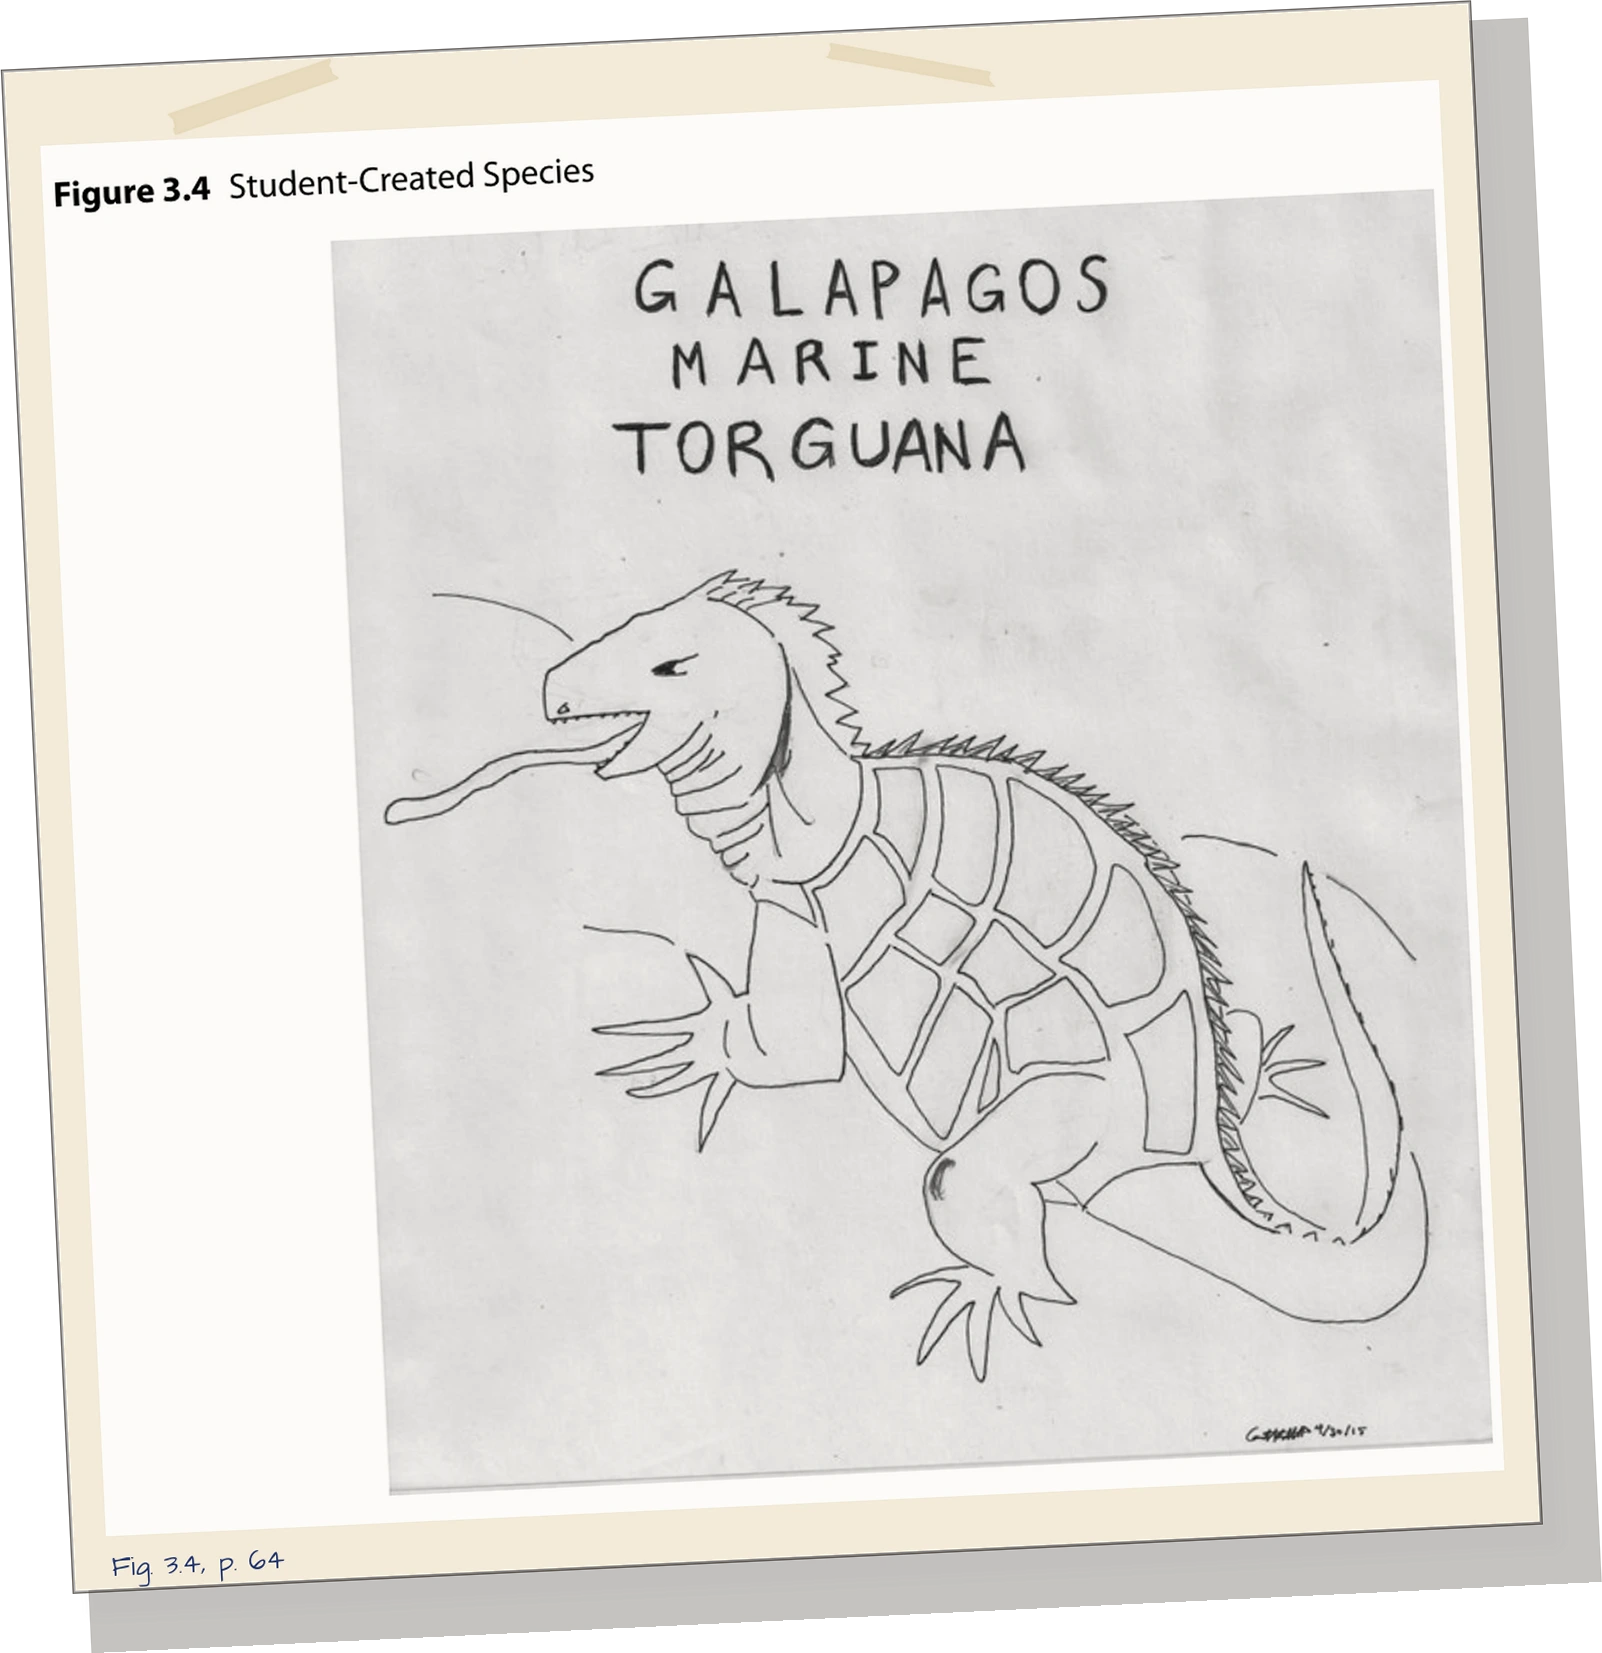
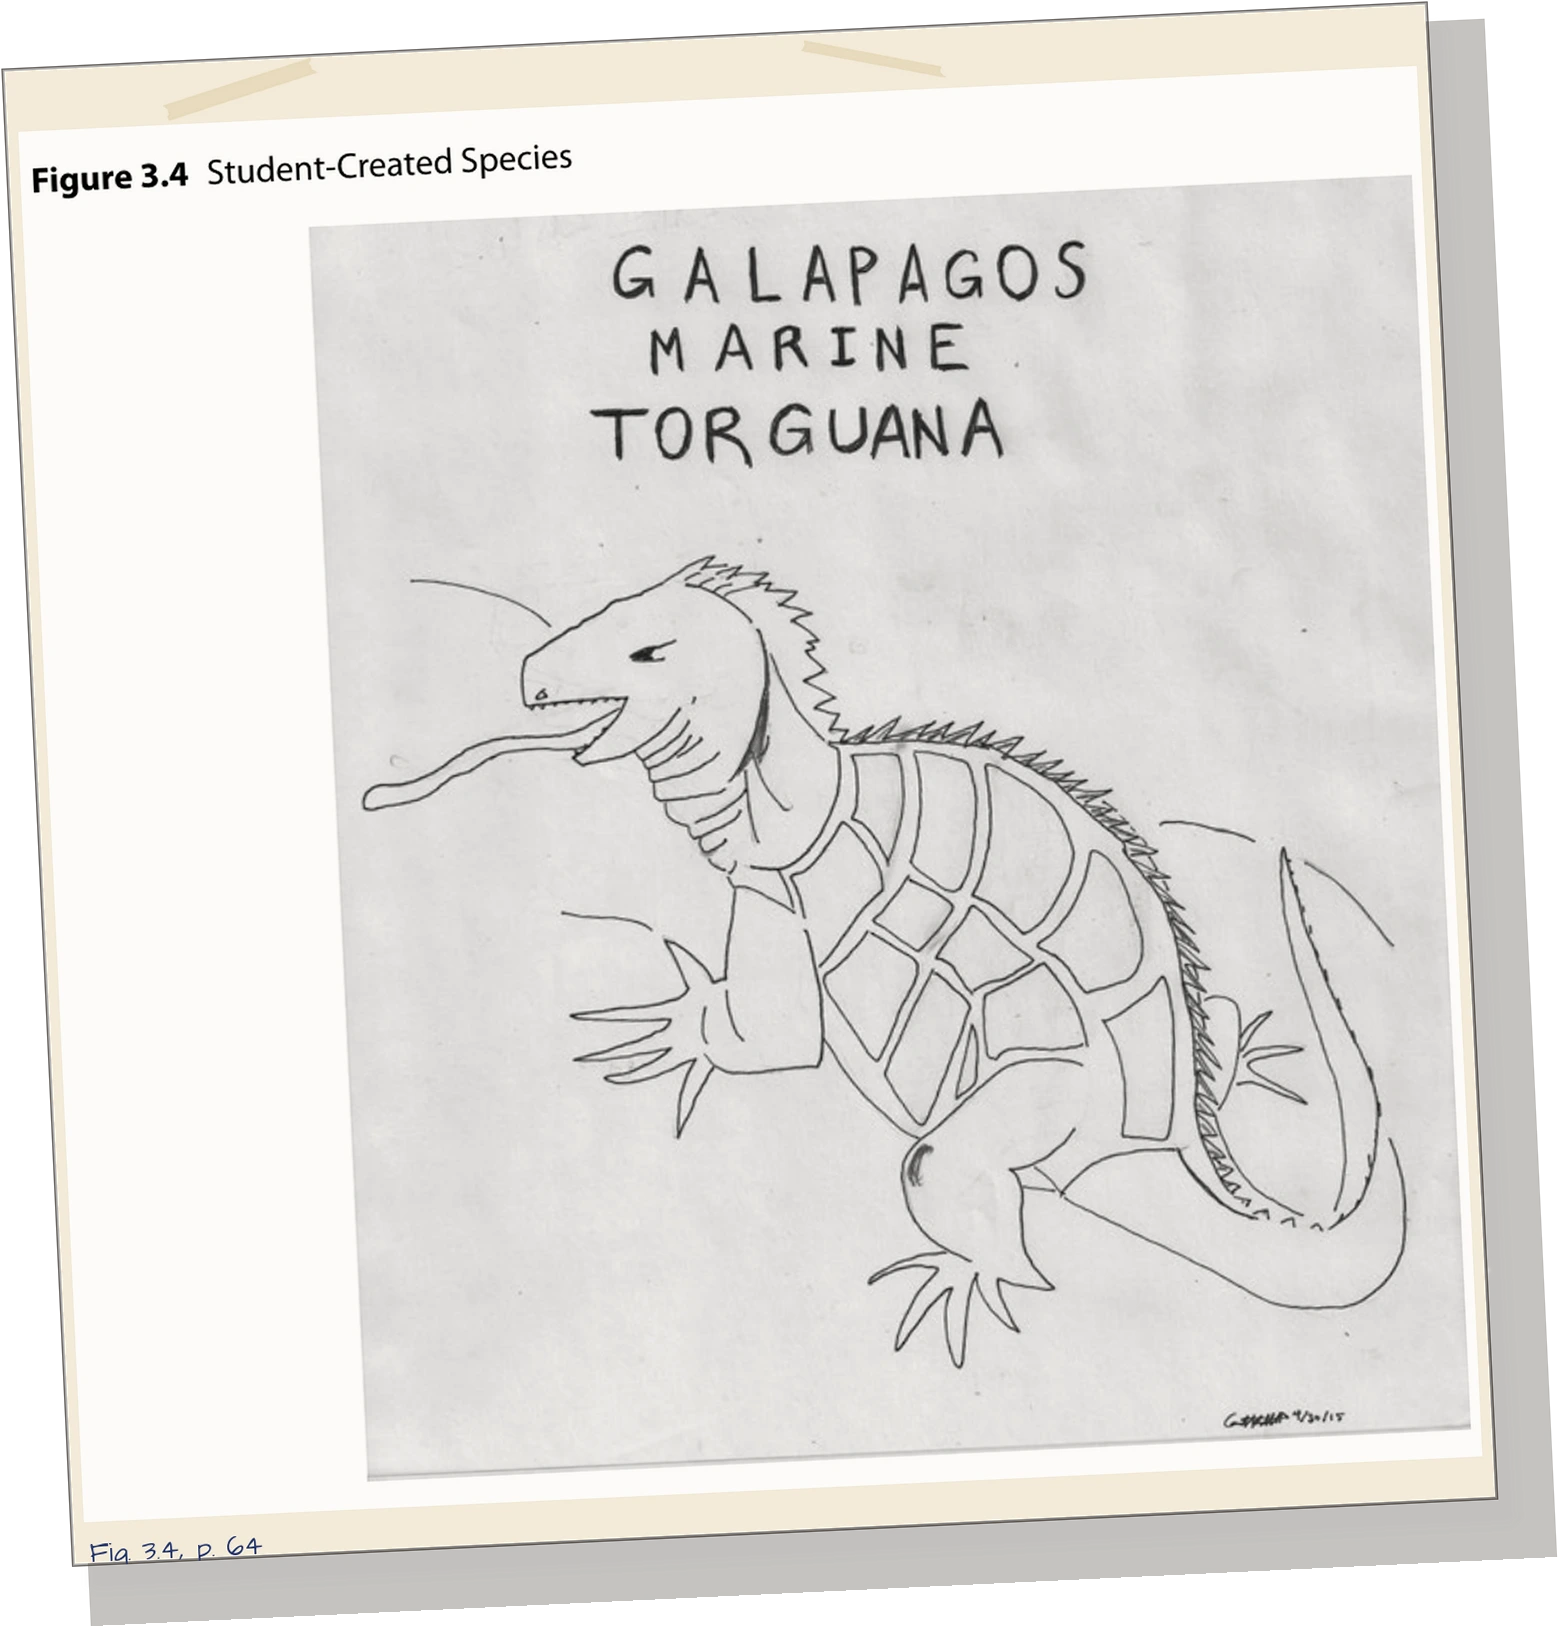
fix(diy-pbl): stage-rect card placement, fewer lines, ≥9px @844
Size Leo figures from the live .bs-scene rect (55% width or ~88%
height if limited; vertical center; ≥3% gap). Cut p13/p22/p25 to
fewer full-sentence lines for glyph size. Assert width/center at
1280 and 844; keep beige tape, soft hatch, p10/p21/p06 endings.

diff --git a/public/diy-pbl-bookshare/bs-pages.js b/public/diy-pbl-bookshare/bs-pages.js
@@ -100,15 +100,15 @@ const IDEA_BY_ART = {
   s14: { x: 110, y: 200, w: 760, h: 560, rot: 1 },
   s15: { x: 110, y: 200, w: 720, h: 560, rot: -1 },
   s16: { x: 110, y: 200, w: 860, h: 560, rot: 1 },
-  r6a: { x: 72, y: 150, w: 700, h: 720, rot: -1 },
-  r6b: { x: 72, y: 150, w: 700, h: 720, rot: 1 },
-  r6c: { x: 72, y: 150, w: 700, h: 720, rot: -1 },
-  r6d: { x: 72, y: 150, w: 700, h: 720, rot: 1 },
-  r6e: { x: 72, y: 150, w: 700, h: 720, rot: -1 },
-  r6f: { x: 72, y: 150, w: 700, h: 720, rot: 1 },
-  r6h: { x: 72, y: 150, w: 700, h: 720, rot: -1 },
-  r6i: { x: 72, y: 150, w: 700, h: 720, rot: 1 },
-  r6j: { x: 72, y: 150, w: 700, h: 720, rot: -1 },
+  r6a: { x: 64, y: 140, w: 640, h: 760, rot: -1 },
+  r6b: { x: 64, y: 140, w: 640, h: 760, rot: 1 },
+  r6c: { x: 64, y: 140, w: 640, h: 760, rot: -1 },
+  r6d: { x: 64, y: 140, w: 640, h: 760, rot: 1 },
+  r6e: { x: 64, y: 140, w: 640, h: 760, rot: -1 },
+  r6f: { x: 64, y: 140, w: 640, h: 760, rot: 1 },
+  r6h: { x: 64, y: 140, w: 640, h: 760, rot: -1 },
+  r6i: { x: 64, y: 140, w: 640, h: 760, rot: 1 },
+  r6j: { x: 64, y: 140, w: 640, h: 760, rot: -1 },
 };
 
 const KT_ROTS = [-2, 1.5, -1, 2, 1, -2.5, 2, -1];
@@ -774,11 +774,56 @@ function placeFigureCard(root, slide) {
   const artId = slide.art || `s${String(slide.n).padStart(2, "0")}`;
   const el = img(`${ART}${artId}/${fig.src}`, "bs-sp bs-r6-figure");
   el.alt = fig.alt || "";
+  // Initial placement from data (design px); refined after decode against live stage.
   const x = fig.x ?? 1000, y = fig.y ?? 100, w = fig.w ?? 800, h = fig.h ?? 900;
   applyRect(el, x, y, w, h, fig.rot || 0);
   el.style.objectFit = "contain";
+  el.style.objectPosition = "center center";
   el.style.pointerEvents = "none";
   layer.appendChild(el);
+  const refine = () => {
+    if (!el.naturalWidth || !el.naturalHeight) return;
+    syncDesignLayer(root, layer);
+    const stage = root.getBoundingClientRect();
+    if (stage.width < 40 || stage.height < 40) return;
+    const idea = root.querySelector(".bs-idea-panel");
+    const ideaR = idea ? idea.getBoundingClientRect() : null;
+    const natA = el.naturalWidth / el.naturalHeight;
+    // Target: 52-55% stage width, or ~88% stage height if portrait-limited.
+    let cssW = stage.width * 0.55;
+    let cssH = cssW / natA;
+    if (cssH > stage.height * 0.88) {
+      cssH = stage.height * 0.88;
+      cssW = cssH * natA;
+    }
+    // ≥3% gap from text column
+    const minLeft = ideaR ? (ideaR.right + stage.width * 0.03) : (stage.left + stage.width * 0.40);
+    let cssLeft = stage.left + stage.width - cssW - stage.width * 0.02;
+    if (cssLeft < minLeft) {
+      cssLeft = minLeft;
+      cssW = Math.max(40, stage.left + stage.width - stage.width * 0.02 - cssLeft);
+      cssH = cssW / natA;
+      if (cssH > stage.height * 0.88) {
+        cssH = stage.height * 0.88;
+        cssW = cssH * natA;
+        cssLeft = stage.left + stage.width - cssW - stage.width * 0.02;
+      }
+    }
+    const cssTop = stage.top + (stage.height - cssH) / 2;
+    // Map viewport CSS box back into design-layer pixels
+    const inv = new DOMMatrix(getComputedStyle(layer).transform).inverse();
+    const p0 = inv.transformPoint({ x: cssLeft - stage.left, y: cssTop - stage.top });
+    const p1 = inv.transformPoint({ x: cssLeft - stage.left + cssW, y: cssTop - stage.top + cssH });
+    const dx = Math.min(p0.x, p1.x), dy = Math.min(p0.y, p1.y);
+    const dw = Math.abs(p1.x - p0.x), dh = Math.abs(p1.y - p0.y);
+    applyRect(el, dx, dy, dw, dh, 0);
+    el.style.objectFit = "contain";
+  };
+  if (el.complete && el.naturalWidth) {
+    requestAnimationFrame(() => requestAnimationFrame(refine));
+  } else {
+    el.addEventListener("load", () => requestAnimationFrame(() => requestAnimationFrame(refine)), { once: true });
+  }
 }
 
 function buildOnArtIdeaPanel(root, slide) {

diff --git a/public/diy-pbl-bookshare/bs-data.js b/public/diy-pbl-bookshare/bs-data.js
@@ -104,10 +104,10 @@ export const SLIDES = [
     "onArt": true,
     "figure": {
       "src": "figure.webp",
-      "x": 857,
-      "y": 230,
-      "w": 1027,
-      "h": 620,
+      "x": 832,
+      "y": 221,
+      "w": 1056,
+      "h": 638,
       "rot": 0
     }
   },
@@ -130,10 +130,10 @@ export const SLIDES = [
     "onArt": true,
     "figure": {
       "src": "figure.webp",
-      "x": 1158,
-      "y": 50,
-      "w": 726,
-      "h": 980,
+      "x": 1198,
+      "y": 65,
+      "w": 690,
+      "h": 950,
       "rot": 0
     }
   },
@@ -191,10 +191,10 @@ export const SLIDES = [
     "onArt": true,
     "figure": {
       "src": "figure.webp",
-      "x": 857,
-      "y": 226,
-      "w": 1027,
-      "h": 627,
+      "x": 832,
+      "y": 217,
+      "w": 1056,
+      "h": 645,
       "rot": 0
     }
   },
@@ -251,10 +251,10 @@ export const SLIDES = [
     "onArt": true,
     "figure": {
       "src": "figure.webp",
-      "x": 857,
-      "y": 290,
-      "w": 1027,
-      "h": 500,
+      "x": 832,
+      "y": 349,
+      "w": 1056,
+      "h": 382,
       "rot": 0
     }
   },
@@ -331,10 +331,10 @@ export const SLIDES = [
     "onArt": true,
     "figure": {
       "src": "figure.webp",
-      "x": 935,
-      "y": 50,
-      "w": 949,
-      "h": 980,
+      "x": 978,
+      "y": 65,
+      "w": 910,
+      "h": 950,
       "rot": 0
     }
   },
@@ -412,10 +412,10 @@ export const SLIDES = [
     "onArt": true,
     "figure": {
       "src": "figure.webp",
-      "x": 1312,
-      "y": 50,
-      "w": 572,
-      "h": 980,
+      "x": 1351,
+      "y": 65,
+      "w": 537,
+      "h": 950,
       "rot": 0
     }
   },
@@ -438,10 +438,10 @@ export const SLIDES = [
     "onArt": true,
     "figure": {
       "src": "figure.webp",
-      "x": 857,
-      "y": 331,
-      "w": 1027,
-      "h": 418,
+      "x": 832,
+      "y": 356,
+      "w": 1056,
+      "h": 367,
       "rot": 0
     }
   },
@@ -499,10 +499,10 @@ export const SLIDES = [
     "onArt": true,
     "figure": {
       "src": "figure.webp",
-      "x": 857,
-      "y": 300,
-      "w": 1027,
-      "h": 479,
+      "x": 832,
+      "y": 370,
+      "w": 1056,
+      "h": 339,
       "rot": 0
     }
   },
